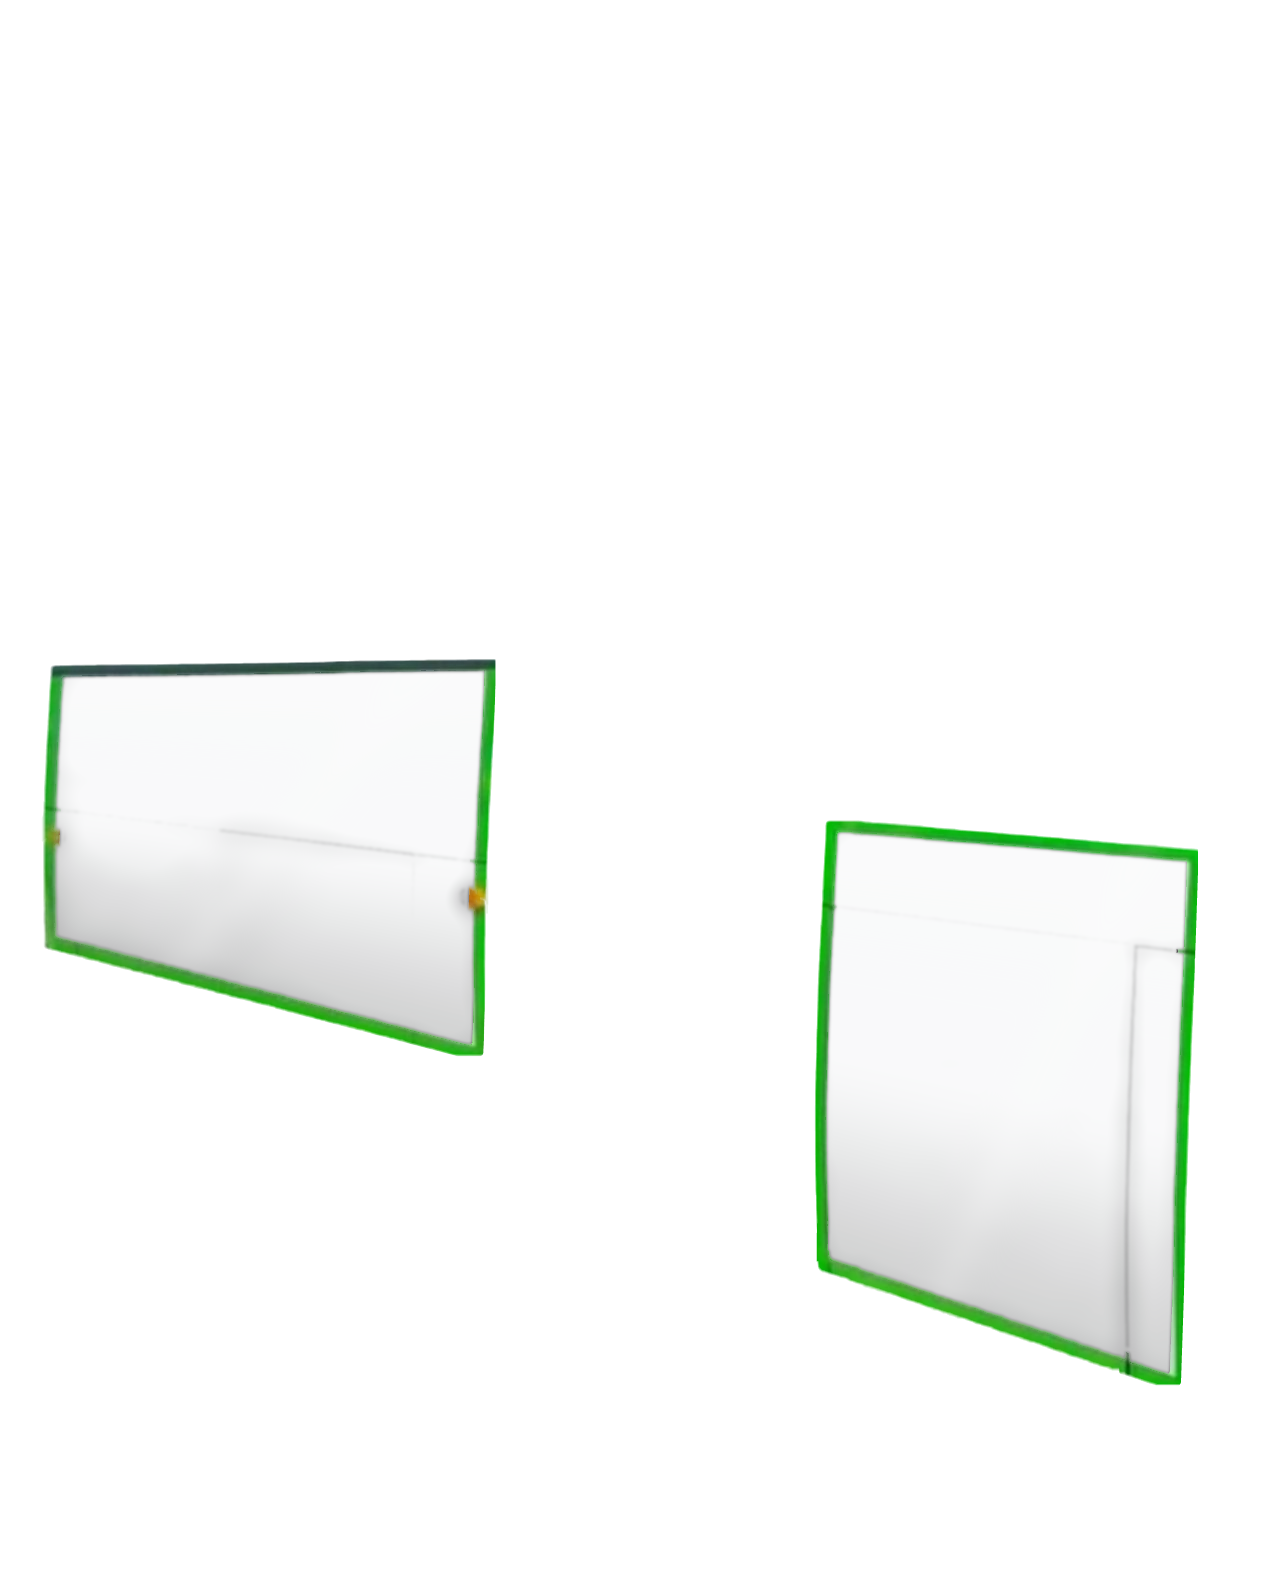
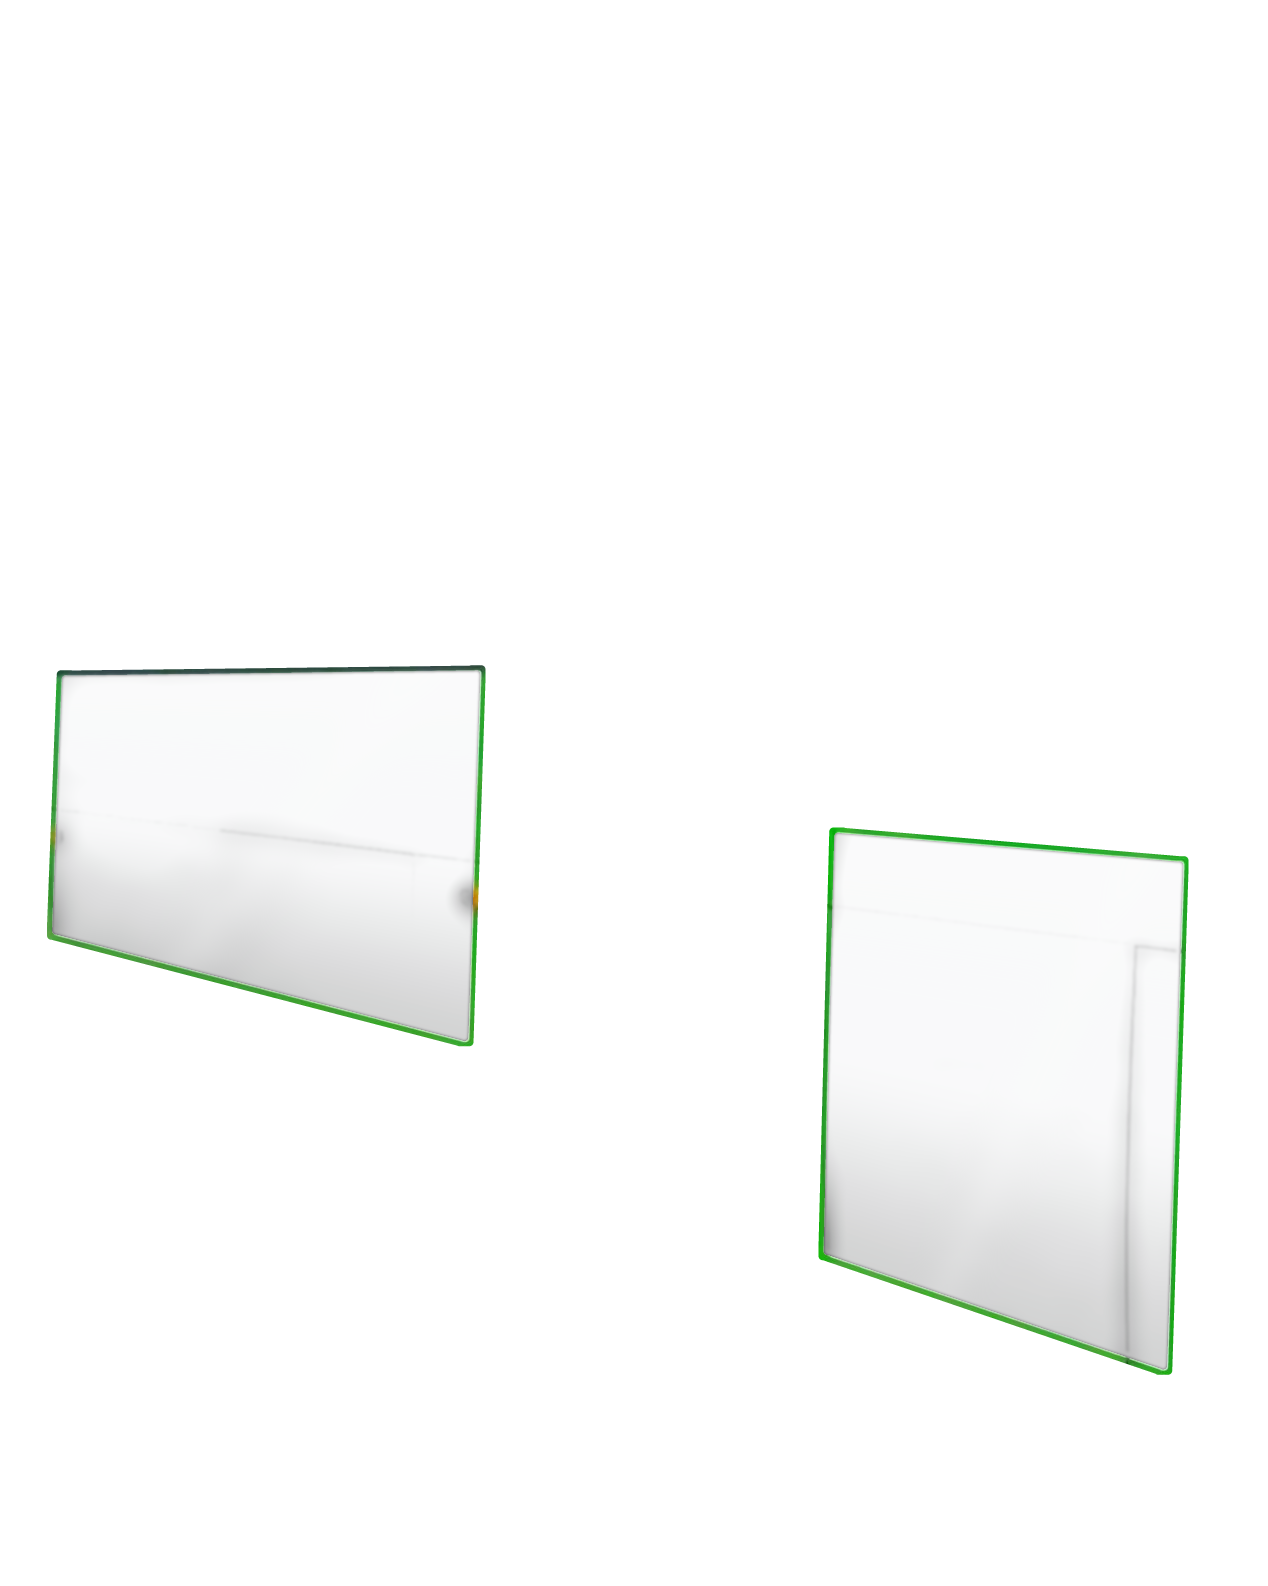
Bus template: clean rectangular ads, no step or sliver at the corners
The original white panels are irregular (the narrow strip on the right
panel reaches lower than the rest), so following their outline left a step
and a white sliver at the bottom-right. The ads are now plain perspective
rectangles and any white panel left outside them is painted with the
surrounding body colour.

Claude-Session: https://claude.ai/code/session_0175suF2pMPBPTK8NfZASMcs

Changed region(s): [[0.6151, 0.4943, 0.9535, 0.896], [0.0308, 0.4016, 0.3998, 0.6797], [0.1538, 0.6179, 0.3076, 0.6488]]

diff --git a/mobile/src/lib/templates.ts b/mobile/src/lib/templates.ts
@@ -99,7 +99,8 @@ export const TEMPLATES: Template[] = [
       },
     ],
   },
-  // 버스 옆면 광고 2칸 (앞쪽 가로판 · 뒤쪽 세로판). 곡면 명암 · 이음새 홈 · 하늘이 비치는 광택. 받은 그림을 1.5배로.
+  // 버스 옆면 광고 2칸 (앞쪽 가로판 · 뒤쪽 세로판). 광고는 반듯한 사각형이고, 그 밖으로 삐져나온 원래 흰 판은 바탕에서 차체 색으로 칠했다.
+  // 곡면 명암 · 이음새 홈 · 하늘이 비치는 광택. 받은 그림을 1.5배로.
   {
     id: 'bus',
     name: '버스 광고',
@@ -109,8 +110,8 @@ export const TEMPLATES: Template[] = [
     background: require('../../assets/templates/bus.jpg'),
     overlay: require('../../assets/templates/bus-overlay.png'),
     slots: [
-      { quad: [[61.9, 675.5], [480.5, 670.3], [468.3, 1042.2], [52.1, 933.6]], aspect: 1.55, grow: 5 },
-      { quad: [[834.6, 832.3], [1183.5, 861.6], [1166.8, 1371.2], [823.7, 1254]], aspect: 0.85, grow: 6 },
+      { quad: [[61.9, 675.5], [480.5, 670.3], [468.3, 1042.2], [52.1, 933.6]], aspect: 1.55, grow: 2 },
+      { quad: [[834.6, 832.3], [1183.5, 861.6], [1166.8, 1371.2], [823.7, 1254]], aspect: 0.85, grow: 2 },
     ],
   },
   // 선수 카드: 카드 그림 자리에 사진. 양옆 · 위는 카드에 스며들며 파란 테두리 빛이 감기고, 아래는 빛줄기 위에서 그늘지며 카드로 넘어간다.

diff --git a/mobile/scripts/templates/make_templates.py b/mobile/scripts/templates/make_templates.py
@@ -272,27 +272,36 @@ metas['subway'] = save_overlay('subway', ov, {'slots': [{'quad': [list(p) for p 
                                                           'glow': {'grow': GLOW, 'blur': 0.045, 'wash': 0.35}}]}, (W, H))
 
 # ── 버스 옆면 광고 2칸: 곡면 차체에 붙인 랩핑 ─────────────────────────────────────────
-# 판 모양은 밝기로 정확히 딴다. 차체 곡면 명암(아래로 휘어 들어가며 어두워짐)과 이음새 홈(어두운 선 + 아래 턱의 빛),
+# 광고는 반듯한 사각형(원근)이다 — 원래 흰 판은 모양이 고르지 않아서(오른쪽 좁은 띠가 아래로 더 내려온다 등)
+# 사각형 밖으로 삐져나온 흰 판은 바탕에서 둘레 차체 색으로 칠한다 (사진 끝에 흰 틈 · 계단이 안 생긴다).
+# 차체 곡면 명암(아래로 휘어 들어가며 어두워짐)과 이음새 홈(옅은 선 + 아래 턱의 빛),
 # 흐린 하늘이 비치는 위쪽 광택과 비스듬한 반사, 랩핑 끝의 얇은 선.
 S = 1.5
 im = Image.open(f'{SRC}/bus-src.png').convert('RGB')
 im = im.resize((round(im.width * S), round(im.height * S)), Image.LANCZOS)
 W, H = im.size
-bg = save_bg('bus', im)
-L = bg.mean(-1)
+src = np.asarray(im).astype(float)
+L = src.mean(-1)
 quads = [[(41.3, 450.3), (320.3, 446.9), (312.2, 694.8), (34.7, 622.4)],
          [(556.4, 554.9), (789.0, 574.4), (777.9, 914.1), (549.1, 836.0)]]
 Qs = [[(x * S, y * S) for x, y in q] for q in quads]
+holes = [poly_cover((W, H), q, radius=4.0) for q in Qs]
+hole = np.clip(holes[0] + holes[1], 0, 1)
+# 흰 판 남은 자리 = 광고 둘레의 밝은 판 (광고가 덮는 곳은 빼고)
+white = np.maximum.reduce([np.clip((L - 115) / 60, 0, 1) * dilate(poly_cover((W, H), q), 24) for q in Qs])
+white = dilate(white, 2)
+leftover = np.clip(white - dilate(hole, 1), 0, 1)
+paint_from = (1 - white) * (1 - hole)
+fill = gblur(src * paint_from[..., None], 5) / np.maximum(gblur(paint_from, 5), 1e-3)[..., None]
+wide = gblur(src * paint_from[..., None], 14) / np.maximum(gblur(paint_from, 14), 1e-3)[..., None]
+fill = np.where((gblur(paint_from, 5) > 0.08)[..., None], fill, wide)
+painted = src * (1 - leftover[..., None]) + fill * leftover[..., None]
+bg = save_bg('bus', Image.fromarray(np.clip(painted, 0, 255).astype('uint8')))
 layers = []
-holes = []
-grows = []
-for q in Qs:
-    h_ = panel_mask(L, q, 115, 185, in_px=4, out_px=4) * poly_cover((W, H), grow_quad(q, 4), radius=4.0)
-    holes.append(h_)
-    grows.append(cover_grow(h_, q))
+for q, h_ in zip(Qs, holes):
     core = erode(h_, 4)
+    # 명암 · 이음새는 원래 흰 판의 밝기에서 (광고가 붙은 판 그대로)
     dark, light = light_shading(L, h_, 75, 9, 1.25, 0.5, 1.3, 0.22)
-    # 이음새 홈: 주변보다 어두운 가는 선 → 어두운 선 + 바로 아래 턱에 맺힌 빛
     hp = L - norm_blur(L, core, 2.5)
     seam = gblur(np.clip((-hp - 6) / 30, 0, 1) * core, 0.6)
     lip = np.clip(shift(seam, 0, 2) - seam, 0, 1)
@@ -304,14 +313,14 @@ for q in Qs:
         (np.array([150.0, 158, 168]), 0.06 * h_),  # 흐린 날 빛 (살짝 차분하게)
         (BLACK, (dark + curve) * h_),
         (WHITE, light * h_),
-        (BLACK, 0.2 * seam),
-        (WHITE, 0.12 * lip * core),
+        (BLACK, 0.16 * seam),
+        (WHITE, 0.1 * lip * core),
         (WHITE, gloss * h_),
         (BLACK, edge),
     ]
-hole = np.clip(holes[0] + holes[1], 0, 1)
+grows = [cover_grow(h_, q) for q, h_ in zip(Qs, holes)]
 ring_px = math.ceil(max(grows) * 1.4) + 2
-layers.append((edge_fill(bg, hole, ring_px), (1 - hole) * dilate(hole, ring_px)))
+layers.append((bg, (1 - hole) * dilate(hole, ring_px)))
 ov = compose(layers, (W, H))
 metas['bus'] = save_overlay('bus', ov, {'slots': [{'quad': [list(p) for p in Qs[0]], 'aspect': 1.55, 'grow': grows[0]},
                                                    {'quad': [list(p) for p in Qs[1]], 'aspect': 0.85, 'grow': grows[1]}]}, (W, H))
